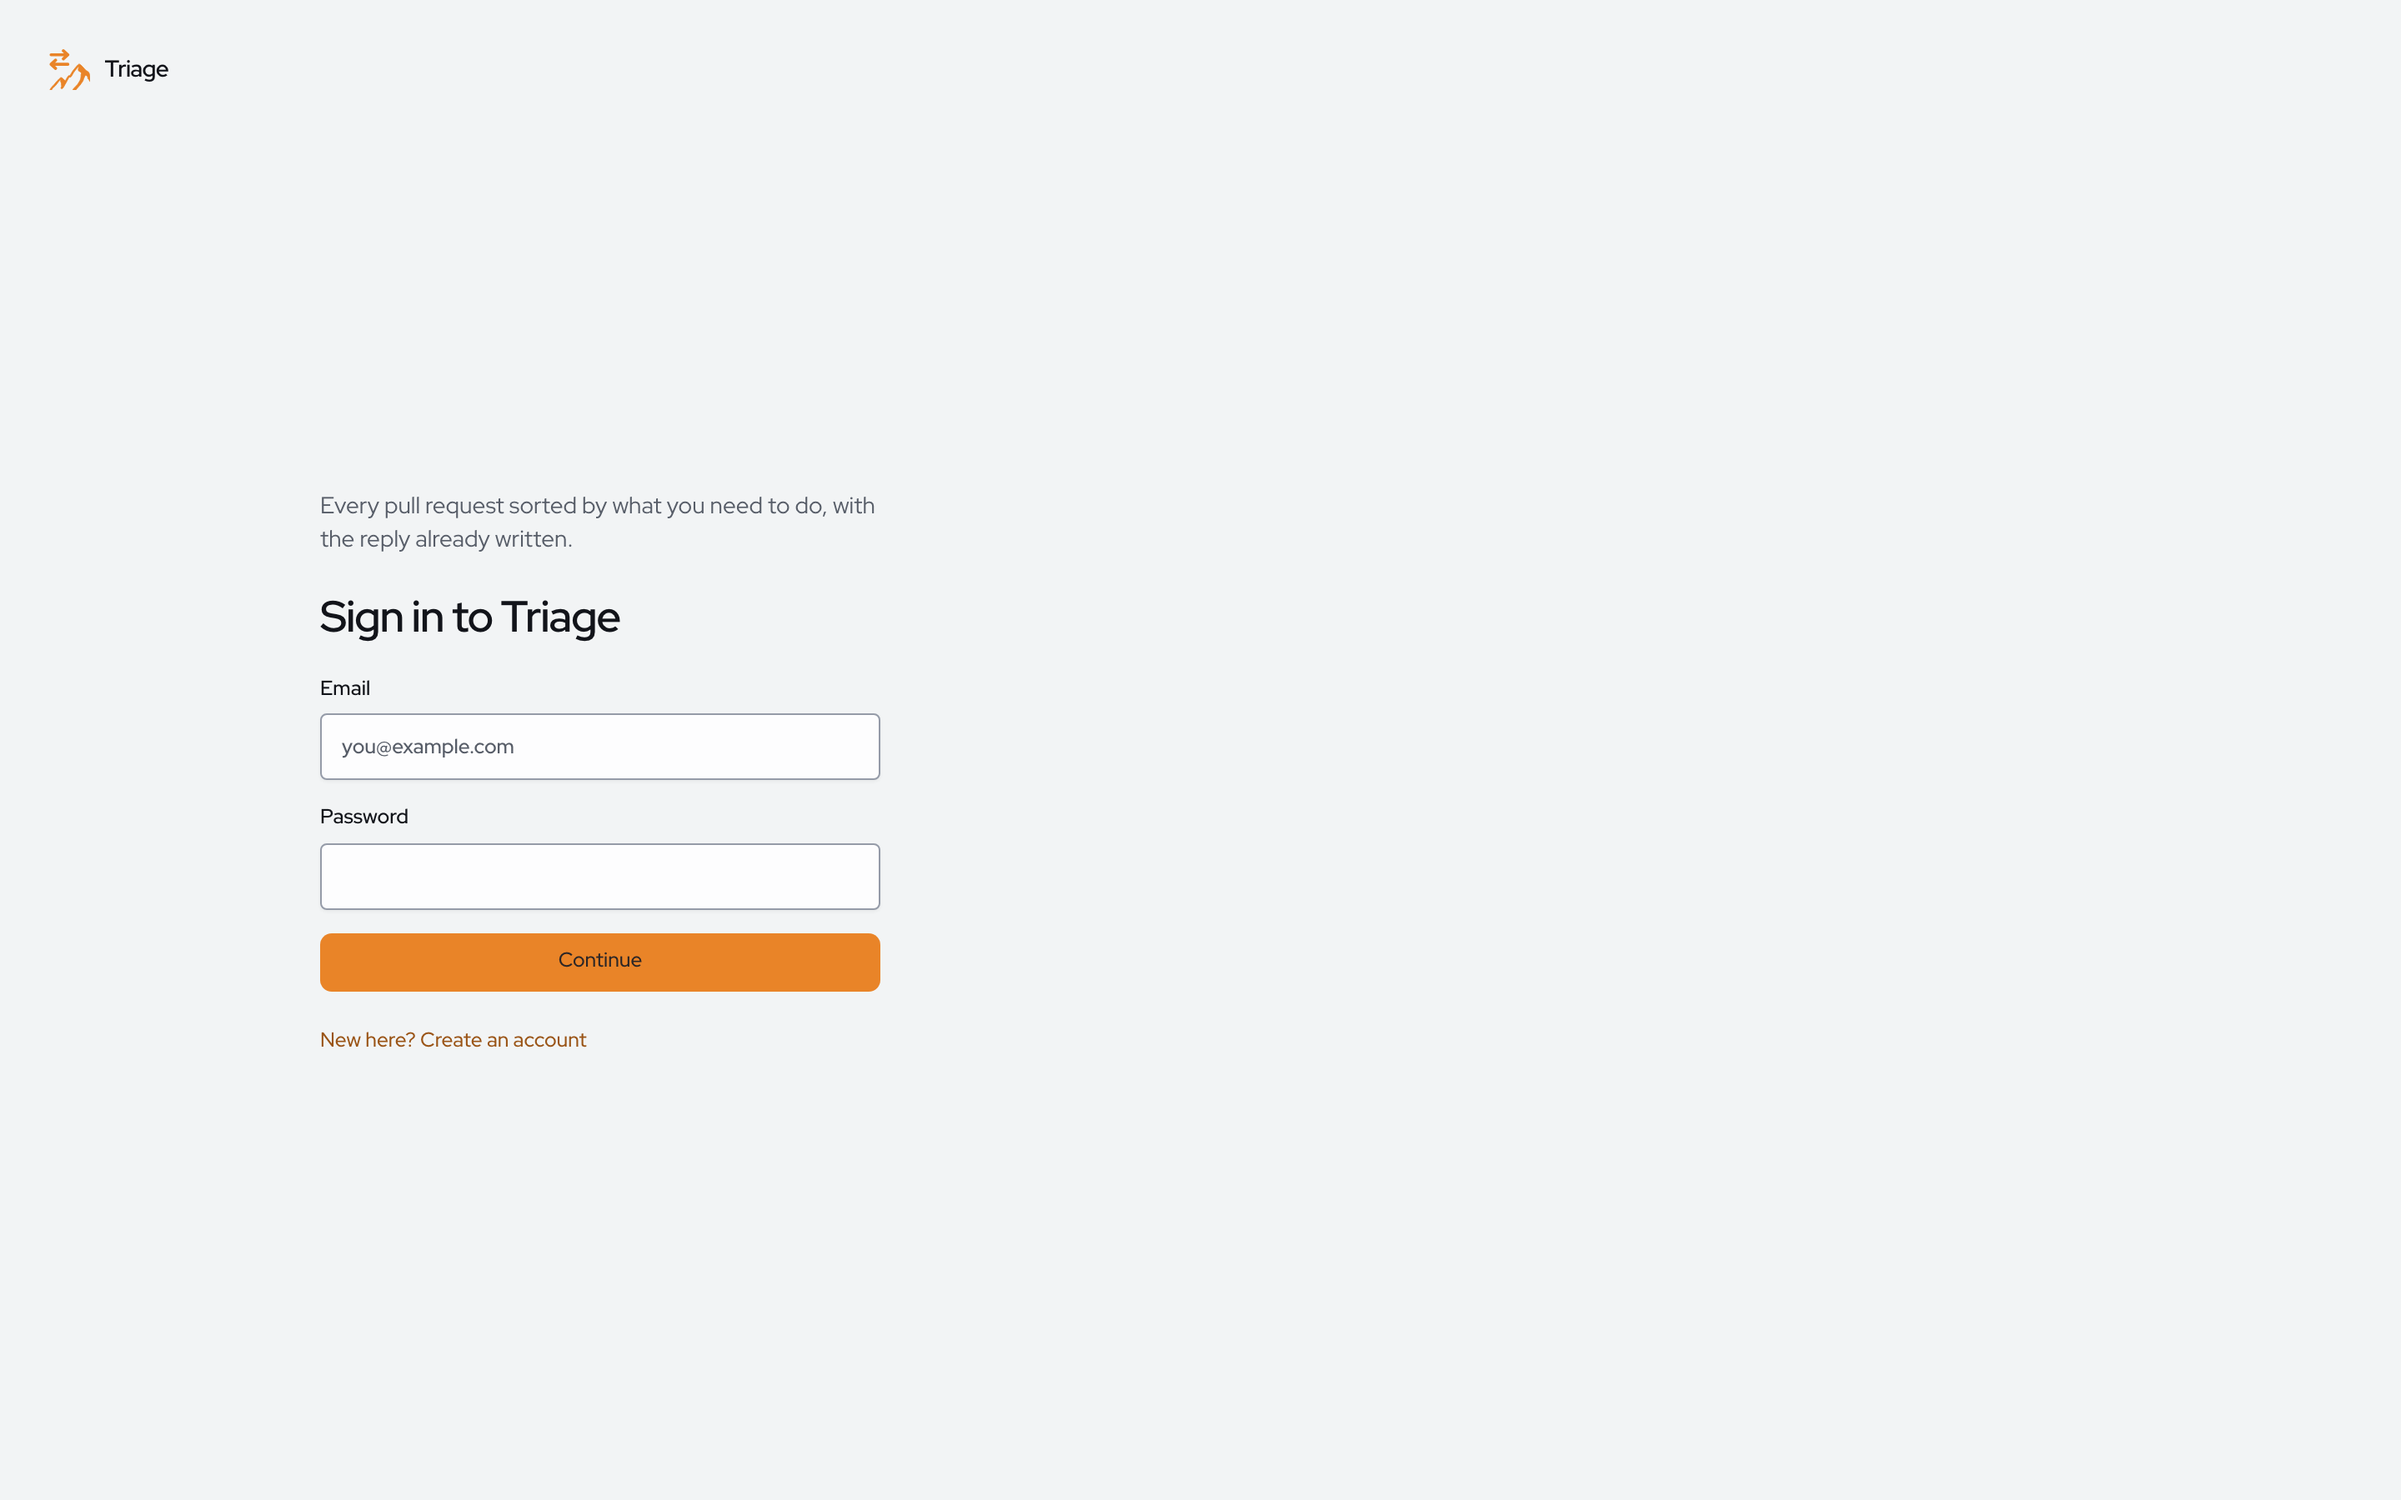
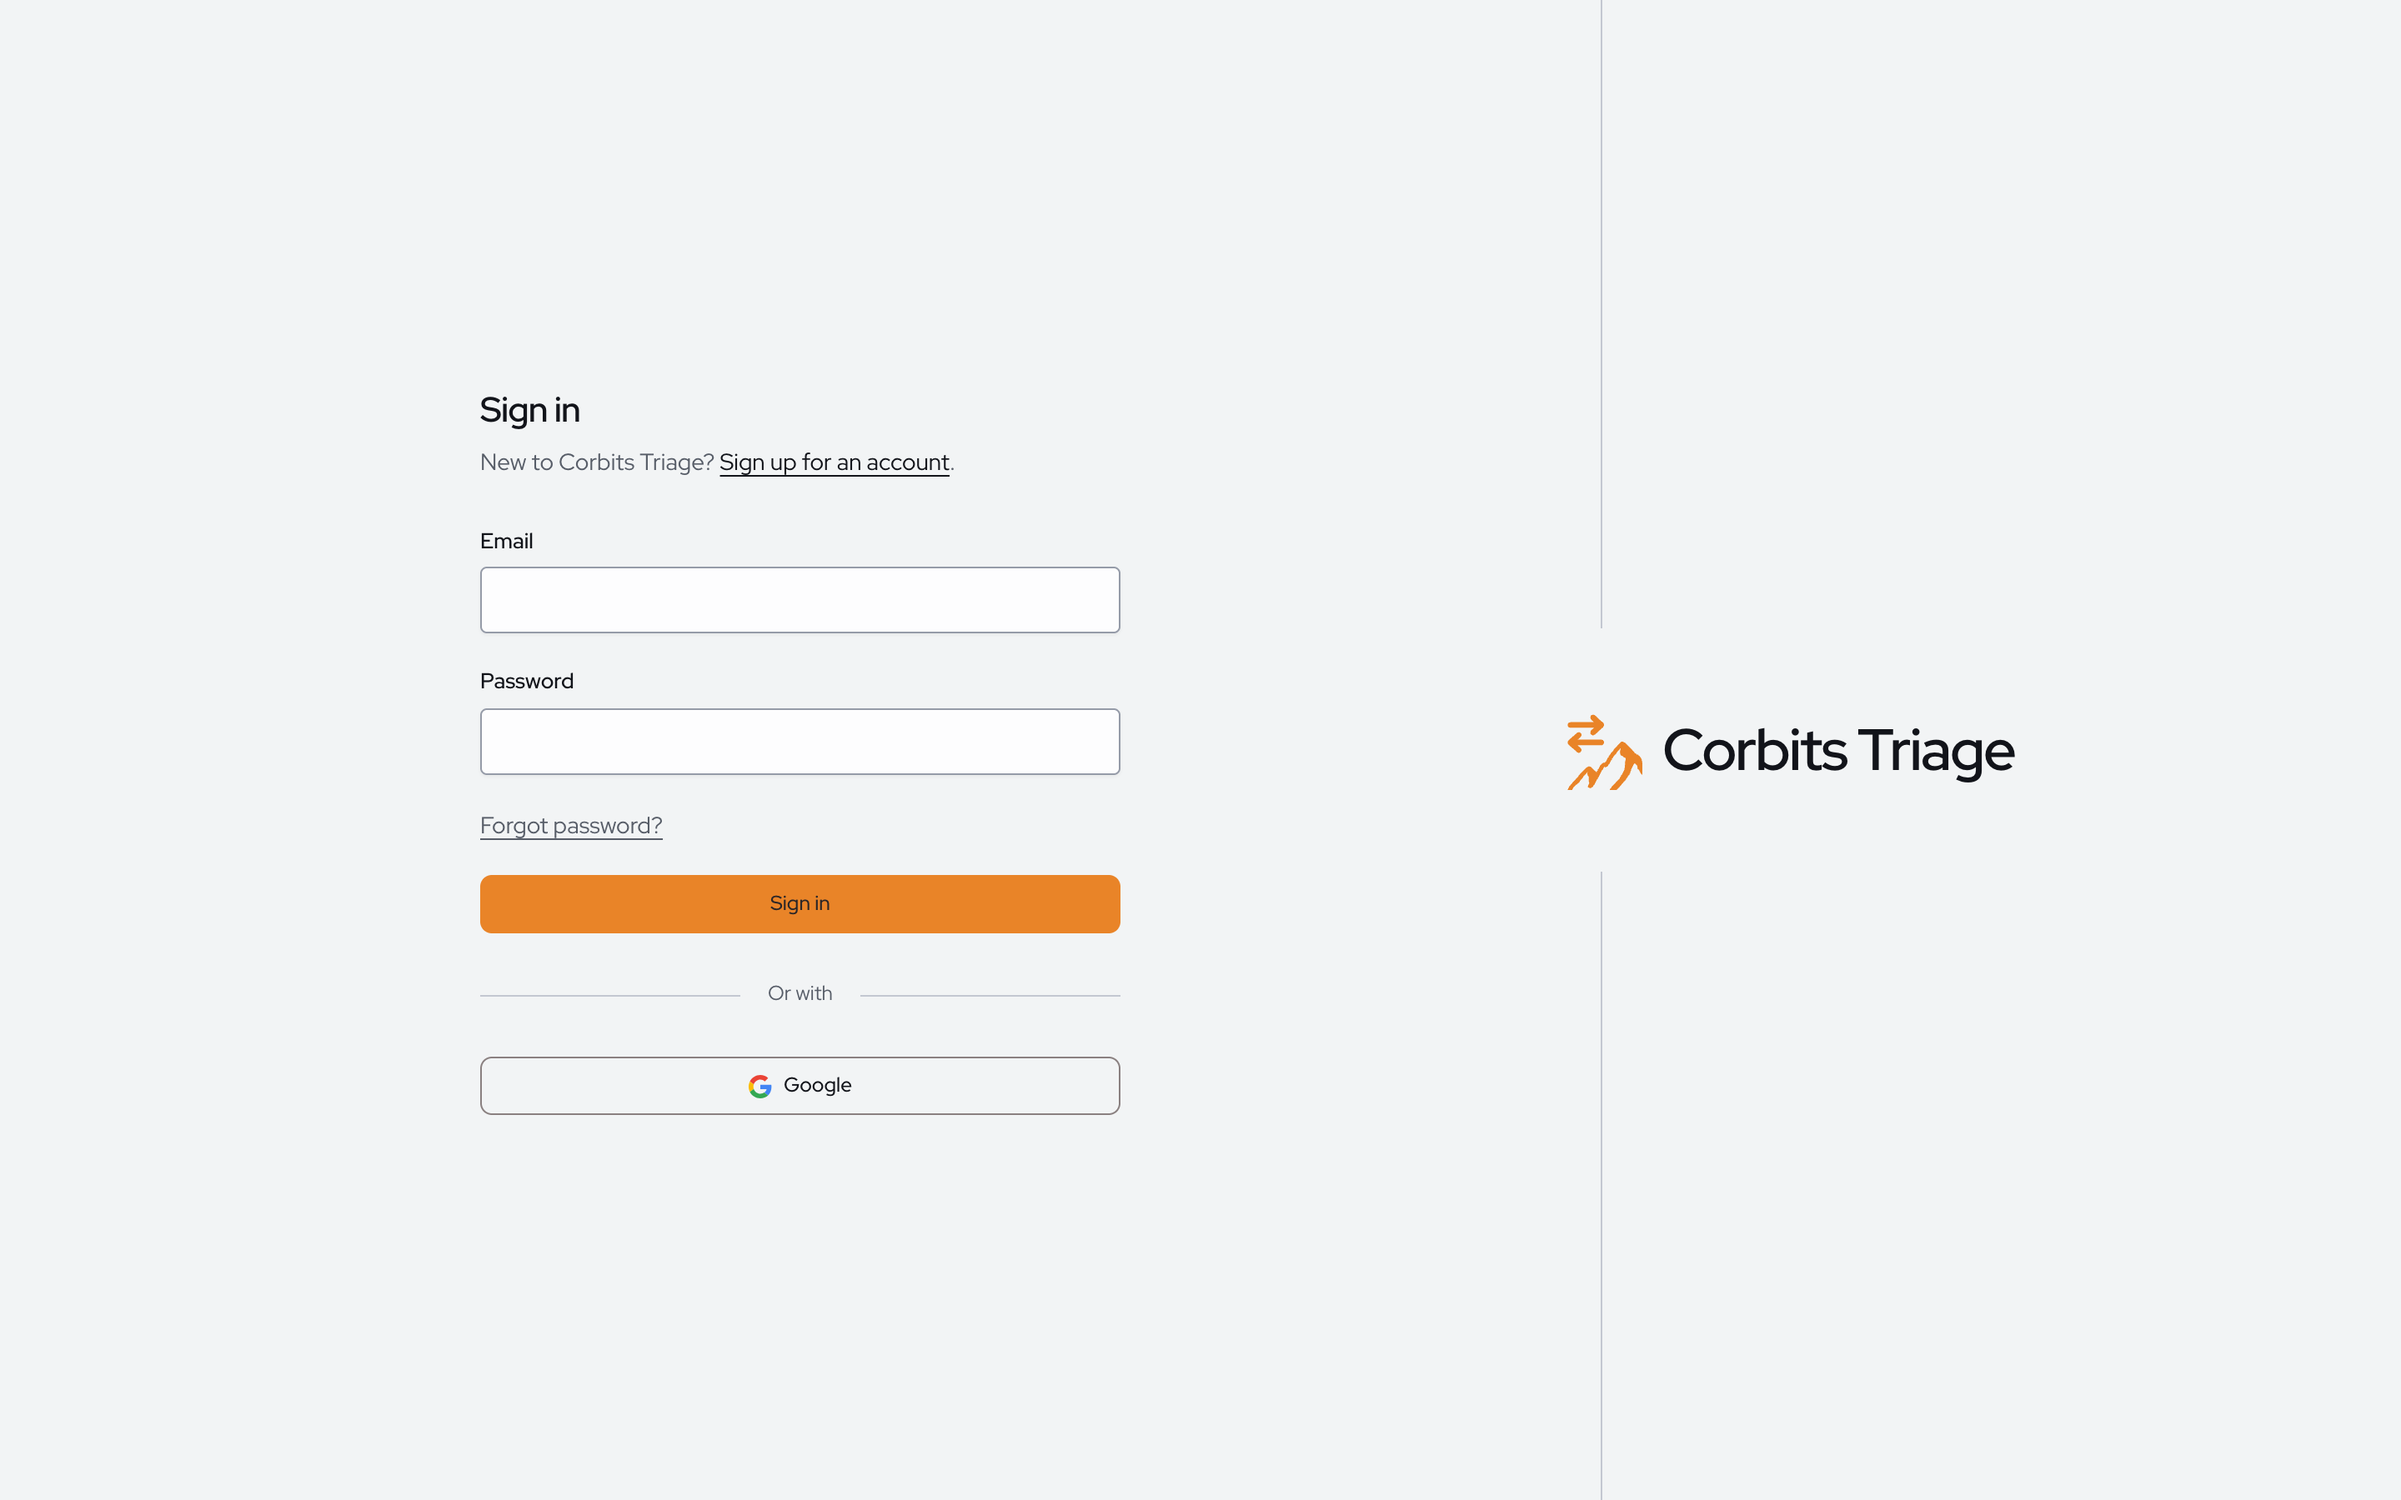
feat(web): put the Triage brand in the sign-in page's empty panel

diff --git a/apps/web/src/pages/Welcome.tsx b/apps/web/src/pages/Welcome.tsx
@@ -1,5 +1,5 @@
-import { useEffect, useState, type FormEvent } from "react";
-import { AuthLayout, Button, Input, LoginForm } from "@corbits/react-ui";
+import { useEffect, useState, type FormEvent, type ReactNode } from "react";
+import { Button, Input } from "@corbits/react-ui";
 import { errorText } from "@corbits/common";
 import { getAuthMethods, requestPasswordReset, signInWithGoogle, type AuthMethods } from "../lib/hub-auth.ts";
 import { useSession } from "../lib/session.tsx";
@@ -18,7 +18,9 @@ function returnedSignInError(): string {
 export function Welcome() {
   const { signIn, signUp, error } = useSession();
   const [mode, setMode] = useState<Mode>("sign-in");
-  const [resetEmail, setResetEmail] = useState("");
+  const [name, setName] = useState("");
+  const [email, setEmail] = useState("");
+  const [password, setPassword] = useState("");
   const [pending, setPending] = useState(false);
   const [localError, setLocalError] = useState(returnedSignInError);
   const [methods, setMethods] = useState<AuthMethods | null>(null);
@@ -35,7 +37,8 @@ export function Welcome() {
     void load();
   }, []);
 
-  async function submit({ name, email, password }: { name?: string; email: string; password: string }) {
+  async function submit(event: FormEvent<HTMLFormElement>) {
+    event.preventDefault();
     setPending(true);
     setLocalError("");
     try {
@@ -66,8 +69,8 @@ export function Welcome() {
     setPending(true);
     setLocalError("");
     try {
-      await requestPasswordReset(resetEmail);
-      setNotice(`If an account uses ${resetEmail}, a link to set its password is on its way.`);
+      await requestPasswordReset(email);
+      setNotice(`If an account uses ${email}, a link to set its password is on its way.`);
     } catch (cause: unknown) {
       setLocalError(`Could not send the reset email. ${message(cause)}.`);
     } finally {
@@ -85,45 +88,84 @@ export function Welcome() {
 
   if (mode === "reset") {
     return (
-      <AuthLayout brand={<><img src="/triage-logo.svg" width="26" height="26" alt="Corbits" />Triage</>}>
-        <form className="signin-reset" aria-busy={pending} onSubmit={(event) => void resetPassword(event)}>
+      <SignInShell>
+        <div className="signin-head">
           <h1>Reset your password</h1>
+          <p><button type="button" className="signin-link" onClick={() => switchTo("sign-in")}>Back to sign in</button></p>
+        </div>
+        <form className="signin-form" aria-busy={pending} onSubmit={(event) => void resetPassword(event)}>
           <label className="field">
             Email
-            <Input type="email" autoComplete="email" value={resetEmail} onChange={(event) => setResetEmail(event.target.value)} required disabled={pending} />
+            <Input type="email" autoComplete="email" value={email} onChange={(event) => setEmail(event.target.value)} required disabled={pending} />
           </label>
           {notice && <p role="status" className="field-help">{notice}</p>}
           {shownError && <p role="alert" className="field-error">{shownError}</p>}
-          <Button type="submit" size="lg" disabled={pending || !resetEmail}>{pending ? "Sending…" : "Send reset link"}</Button>
-          <Button type="button" variant="link" size="sm" onClick={() => switchTo("sign-in")}>Back to sign in</Button>
+          <Button type="submit" size="lg" disabled={pending || !email}>{pending ? "Sending…" : "Send reset link"}</Button>
         </form>
-      </AuthLayout>
+      </SignInShell>
     );
   }
 
+  const signingUp = mode === "sign-up";
+
   return (
-    <AuthLayout brand={<><img src="/triage-logo.svg" width="26" height="26" alt="Corbits" />Triage</>}>
-      <p className="signin-lede">Every pull request sorted by what you need to do, with the reply already written.</p>
-      <LoginForm
-        mode={mode}
-        heading={mode === "sign-up" ? "Create your Triage account" : "Sign in to Triage"}
-        providers={methods?.google ? [{ id: "google", label: "Continue with Google", icon: <GoogleMark /> }] : []}
-        onProvider={() => void continueWithGoogle()}
-        onSubmit={methods?.emailPassword ? (credentials) => void submit(credentials) : undefined}
-        busy={pending}
-        error={shownError}
-        footer={methods?.emailPassword ? (
-          <div className="signin-links">
-            <Button type="button" variant="link" size="sm" onClick={() => switchTo(mode === "sign-up" ? "sign-in" : "sign-up")}>
-              {mode === "sign-up" ? "Have an account? Sign in" : "New here? Create an account"}
-            </Button>
-            {methods.passwordReset && mode === "sign-in" && (
-              <Button type="button" variant="link" size="sm" onClick={() => switchTo("reset")}>Reset password</Button>
-            )}
-          </div>
-        ) : undefined}
-      />
-    </AuthLayout>
+    <SignInShell>
+      <div className="signin-head">
+        <h1>{signingUp ? "Create an account" : "Sign in"}</h1>
+        {methods?.emailPassword && (
+          <p>
+            {signingUp ? "Have an account? " : "New to Corbits Triage? "}
+            <button type="button" className="signin-link" disabled={pending} onClick={() => switchTo(signingUp ? "sign-in" : "sign-up")}>
+              {signingUp ? "Sign in" : "Sign up for an account"}
+            </button>.
+          </p>
+        )}
+      </div>
+      {shownError && <p role="alert" aria-live="assertive" className="field-error">{shownError}</p>}
+      {methods?.emailPassword && (
+        <form className="signin-form" aria-busy={pending} onSubmit={(event) => void submit(event)}>
+          {signingUp && (
+            <label className="field">
+              Name
+              <Input type="text" autoComplete="name" value={name} onChange={(event) => setName(event.target.value)} required disabled={pending} />
+            </label>
+          )}
+          <label className="field">
+            Email
+            <Input type="email" autoComplete="email" value={email} onChange={(event) => setEmail(event.target.value)} required disabled={pending} />
+          </label>
+          <label className="field">
+            Password
+            <Input type="password" autoComplete={signingUp ? "new-password" : "current-password"} value={password} onChange={(event) => setPassword(event.target.value)} required disabled={pending} />
+          </label>
+          {methods.passwordReset && !signingUp && (
+            <button type="button" className="signin-link signin-forgot" disabled={pending} onClick={() => switchTo("reset")}>Forgot password?</button>
+          )}
+          <Button type="submit" size="lg" disabled={pending}>{pending ? (signingUp ? "Signing up…" : "Signing in…") : signingUp ? "Sign up" : "Sign in"}</Button>
+        </form>
+      )}
+      {methods?.google && (
+        <>
+          {methods.emailPassword && <p className="signin-or">Or with</p>}
+          <Button type="button" variant="outline" size="lg" disabled={pending} aria-label="Continue with Google" onClick={() => void continueWithGoogle()}>
+            <GoogleMark />Google
+          </Button>
+        </>
+      )}
+    </SignInShell>
+  );
+}
+
+function SignInShell({ children }: { children: ReactNode }) {
+  return (
+    <div className="signin">
+      <main className="signin-main">
+        <div className="signin-column">{children}</div>
+      </main>
+      <div className="signin-brand" aria-hidden="true">
+        <span className="signin-wordmark"><img src="/triage-logo.svg" width="48" height="48" alt="" />Corbits Triage</span>
+      </div>
+    </div>
   );
 }
 

diff --git a/apps/web/src/onboarding.css b/apps/web/src/onboarding.css
@@ -46,10 +46,42 @@ body:has(.setup-flow),
 .setup-flow input:focus,
 .setup-flow textarea:focus { outline: none; border-color: var(--heat); box-shadow: var(--focus); }
 
-.signin-lede { margin-bottom: 24px; color: var(--ink-mute); }
-.signin-links { display: flex; flex-wrap: wrap; gap: 16px; }
-.signin-reset { display: grid; gap: 16px; }
-.signin-reset h1 { font-size: 1.875rem; font-weight: 600; letter-spacing: -0.02em; }
+.signin {
+  min-height: 100svh;
+  display: grid;
+  grid-template-columns: 2fr 1fr;
+  background: var(--background);
+}
+.signin-main { display: flex; align-items: center; justify-content: center; padding: 48px 16px; }
+.signin-column { display: grid; gap: 28px; width: 100%; max-width: 384px; }
+.signin-head h1 { font-size: 1.5rem; font-weight: 600; letter-spacing: -0.02em; }
+.signin-head p { margin-top: 6px; color: var(--muted-foreground); }
+.signin-link { padding: 0; border: 0; background: none; color: var(--foreground); font: inherit; text-decoration: underline; text-underline-offset: 3px; cursor: pointer; }
+.signin-link:disabled { cursor: default; opacity: 0.6; }
+.signin-form { display: grid; gap: 20px; }
+.signin-forgot { justify-self: start; color: var(--muted-foreground); }
+.signin-or { display: flex; align-items: center; gap: 16px; color: var(--muted-foreground); font-size: 0.875rem; }
+.signin-or::before, .signin-or::after { content: ""; flex: 1; height: 1px; background: var(--border); }
+.signin-brand { display: flex; align-items: center; border-left: 1px solid var(--border); }
+.signin-wordmark {
+  display: flex;
+  align-items: center;
+  gap: 12px;
+  margin-left: -24px;
+  padding: 48px 0;
+  background: var(--background);
+  color: var(--foreground);
+  font-size: 2.5rem;
+  font-weight: 600;
+  letter-spacing: -0.03em;
+}
+@media (max-width: 1023px) {
+  .signin { grid-template-columns: 1fr; grid-template-rows: auto 1fr; }
+  .signin-main { align-items: flex-start; }
+  .signin-brand { order: -1; justify-content: center; padding-top: 48px; border-left: 0; }
+  .signin-wordmark { margin-left: 0; padding: 0; font-size: 1.75rem; }
+  .signin-wordmark img { width: 32px; height: 32px; }
+}
 
 /* Setup */
 .setup-flow { padding: 24px 32px 56px; }

diff --git a/docs/Corbits Triage User Manual/Corbits Triage User Manual.md b/docs/Corbits Triage User Manual/Corbits Triage User Manual.md
@@ -32,13 +32,13 @@ You use Corbits Triage through a website called the portal. Your administrator w
 
 Open the portal address. You will see the sign-in screen.
 
-![The sign-in screen: an email field, a password field, a Continue button and a link to create an account](images/01.png)
+![The sign-in screen: an email field, a password field, a Sign in button and a link to create an account](images/01.png)
 
-Type your email address and password and press **Continue**. If your organization uses Google sign-in, a **Continue with Google** button appears instead of, or next to, the password fields. If you forget your password, use the **Reset password** link below the form.
+Type your email address and password and press **Sign in**. If your organization uses Google sign-in, a **Google** button appears instead of, or below, the password fields. If you forget your password, use the **Forgot password?** link under the password field.
 
 ### Creating an account
 
-If you are the first person from your team, click **New here? Create an account**. The form asks for your name, your email address and a password.
+If you are the first person from your team, click **Sign up for an account**. The form asks for your name, your email address and a password.
 
 ![The create-account form with Name, Email and Password fields](images/02.png)
 
@@ -314,7 +314,7 @@ Type in the search box to narrow the list by actor, action or pull request. The 
 
 **Can I try new rules without affecting anyone?** Yes. On the repository page, change the rules, then use **Preview** at the bottom to run the draft against one open pull request. Nothing is written to GitHub. Press **Discard** if you do not want to keep the changes.
 
-**Where do I change my password?** Sign out, then use **Reset password** on the sign-in screen. A reset link is sent to your email.
+**Where do I change my password?** Sign out, then use **Forgot password?** on the sign-in screen. A reset link is sent to your email.
 
 **How do I remove someone from the workspace?** An Owner or Admin can change or remove a person's role under Settings → Access.
 
